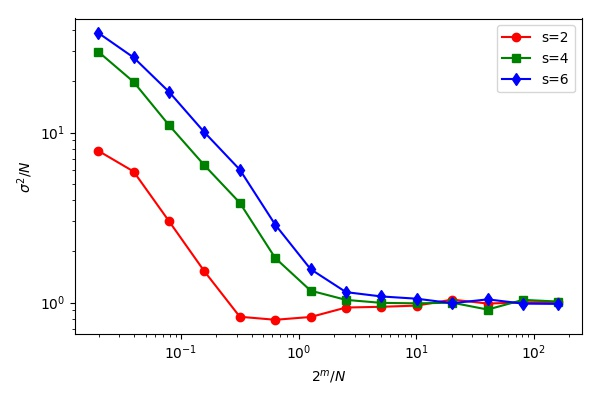
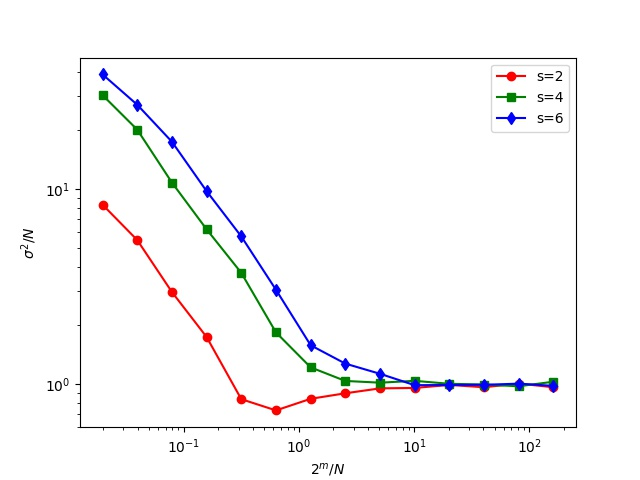
5/10, 19：22

diff --git a/minority_game-master/sim_volati_alpha_S.py b/minority_game-master/sim_volati_alpha_S.py
@@ -1,8 +1,7 @@
-from pylab import *
+import matplotlib.pyplot as plt
 from numpy import *
 from minoritygame import *
 
-fig = figure(1,figsize=(6,4))
 
 N = 101
 syms = ['ro-','gs-','bd-']
@@ -21,13 +20,12 @@ for i in range(len(s)):
         X.append(mean(x))
         Y.append(mean(y))
         print('m='+str(m))
-    plot(X,Y,syms[i],label='s='+str(s[i]))
+    plt.plot(X,Y,syms[i],label='s='+str(s[i]))
     print('s='+str(s[i]))
 
-xscale('log')
-yscale('log')
-xlabel(r'$2^{m}/N$')
-ylabel(r'$\sigma^2/N$')
-legend(loc='best')
-fig.set_tight_layout(True)
-savefig('Var_alpha_multiS.jpg')
+plt.xscale('log')
+plt.yscale('log')
+plt.xlabel(r'$2^{m}/N$')
+plt.ylabel(r'$\sigma^2/N$')
+plt.legend(loc='best')
+plt.savefig('Var_alpha_multiS.jpg')

diff --git a/minority_game-master/sim_succ.py b/minority_game-master/sim_succ.py
@@ -1,8 +1,8 @@
-from pylab import *
+
 from numpy import *
 from minoritygame import *
+import matplotlib.pyplot as plt
 
-fig = figure(1,figsize=(6,4))
 
 X = []
 Y = []
@@ -19,9 +19,9 @@ for m in range(1,10):
     Y.append(mean(y))
     print('m='+str(m))
 
-plot(X,Y,'o-')
-xscale('log')
-xlabel(r'$2^{m}/N$')
-ylabel(r'$success\ rate$')
-savefig('Success_rate.jpg')
-close(fig)
+plt.plot(X,Y,'o-')
+plt.xscale('log')
+plt.xlabel(r'$2^{m}/N$')
+plt.ylabel(r'$success\ rate$')
+plt.savefig('Success_rate.jpg')
+plt.close()
